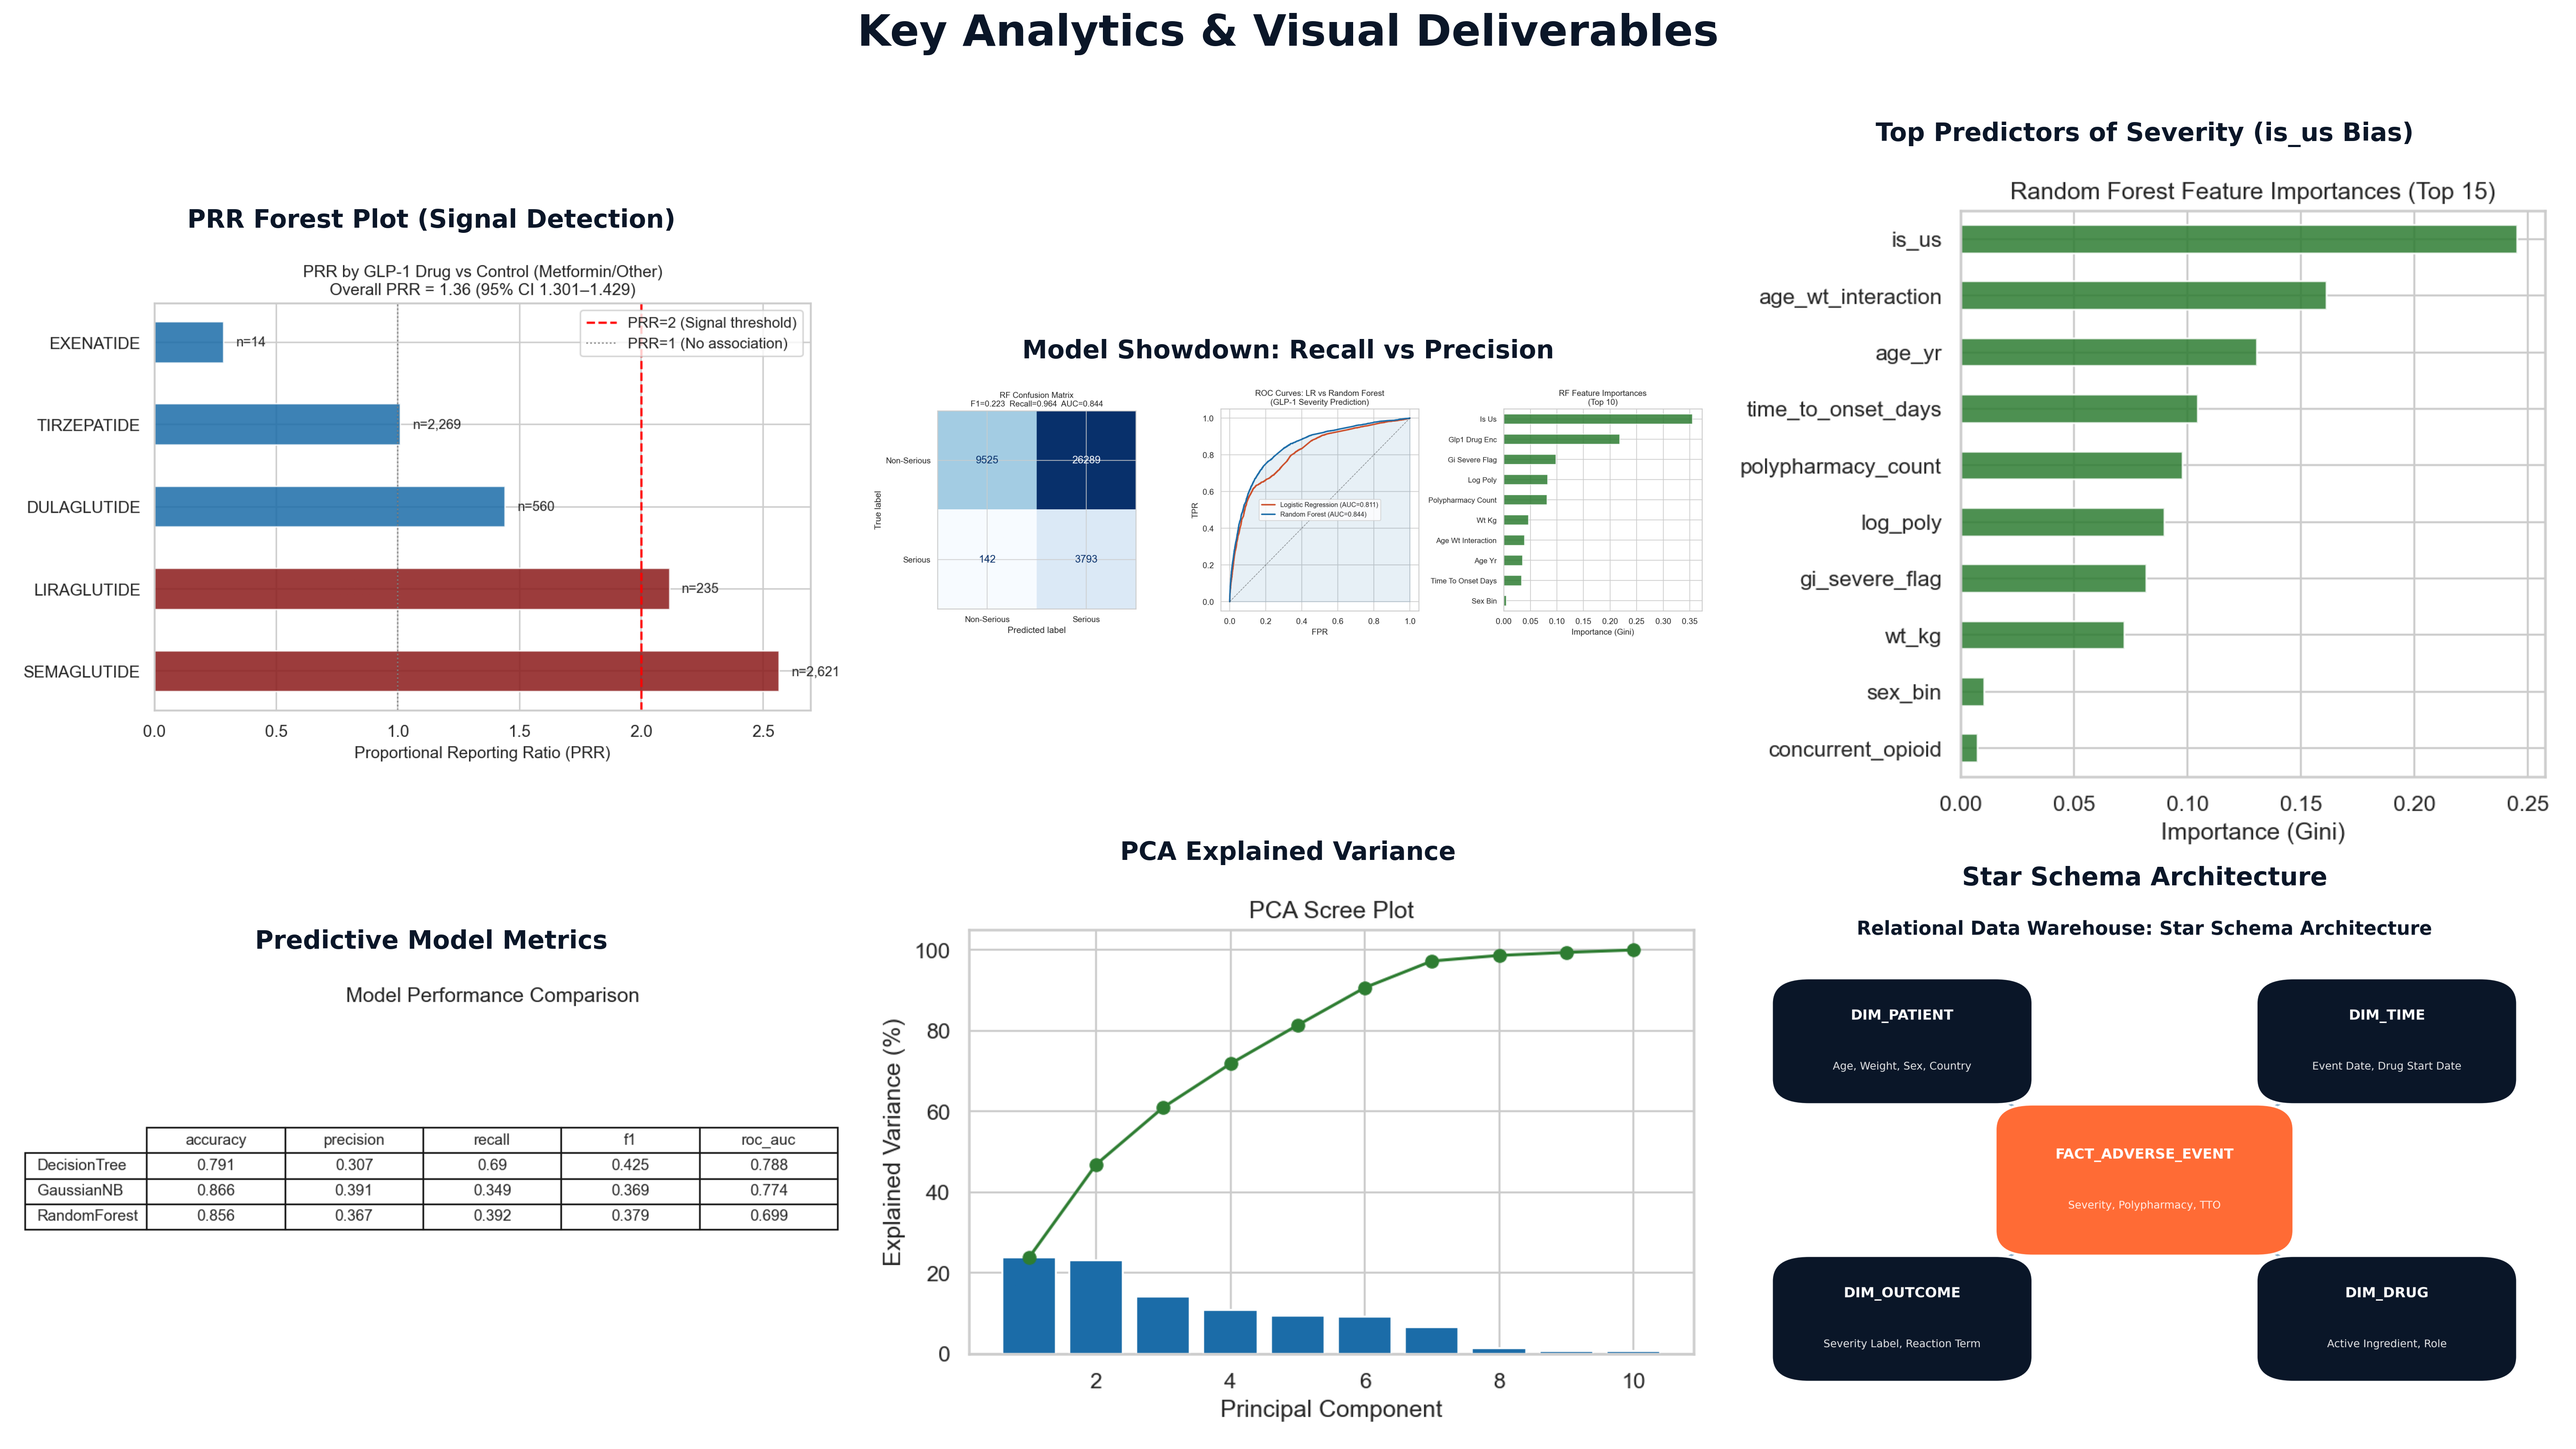
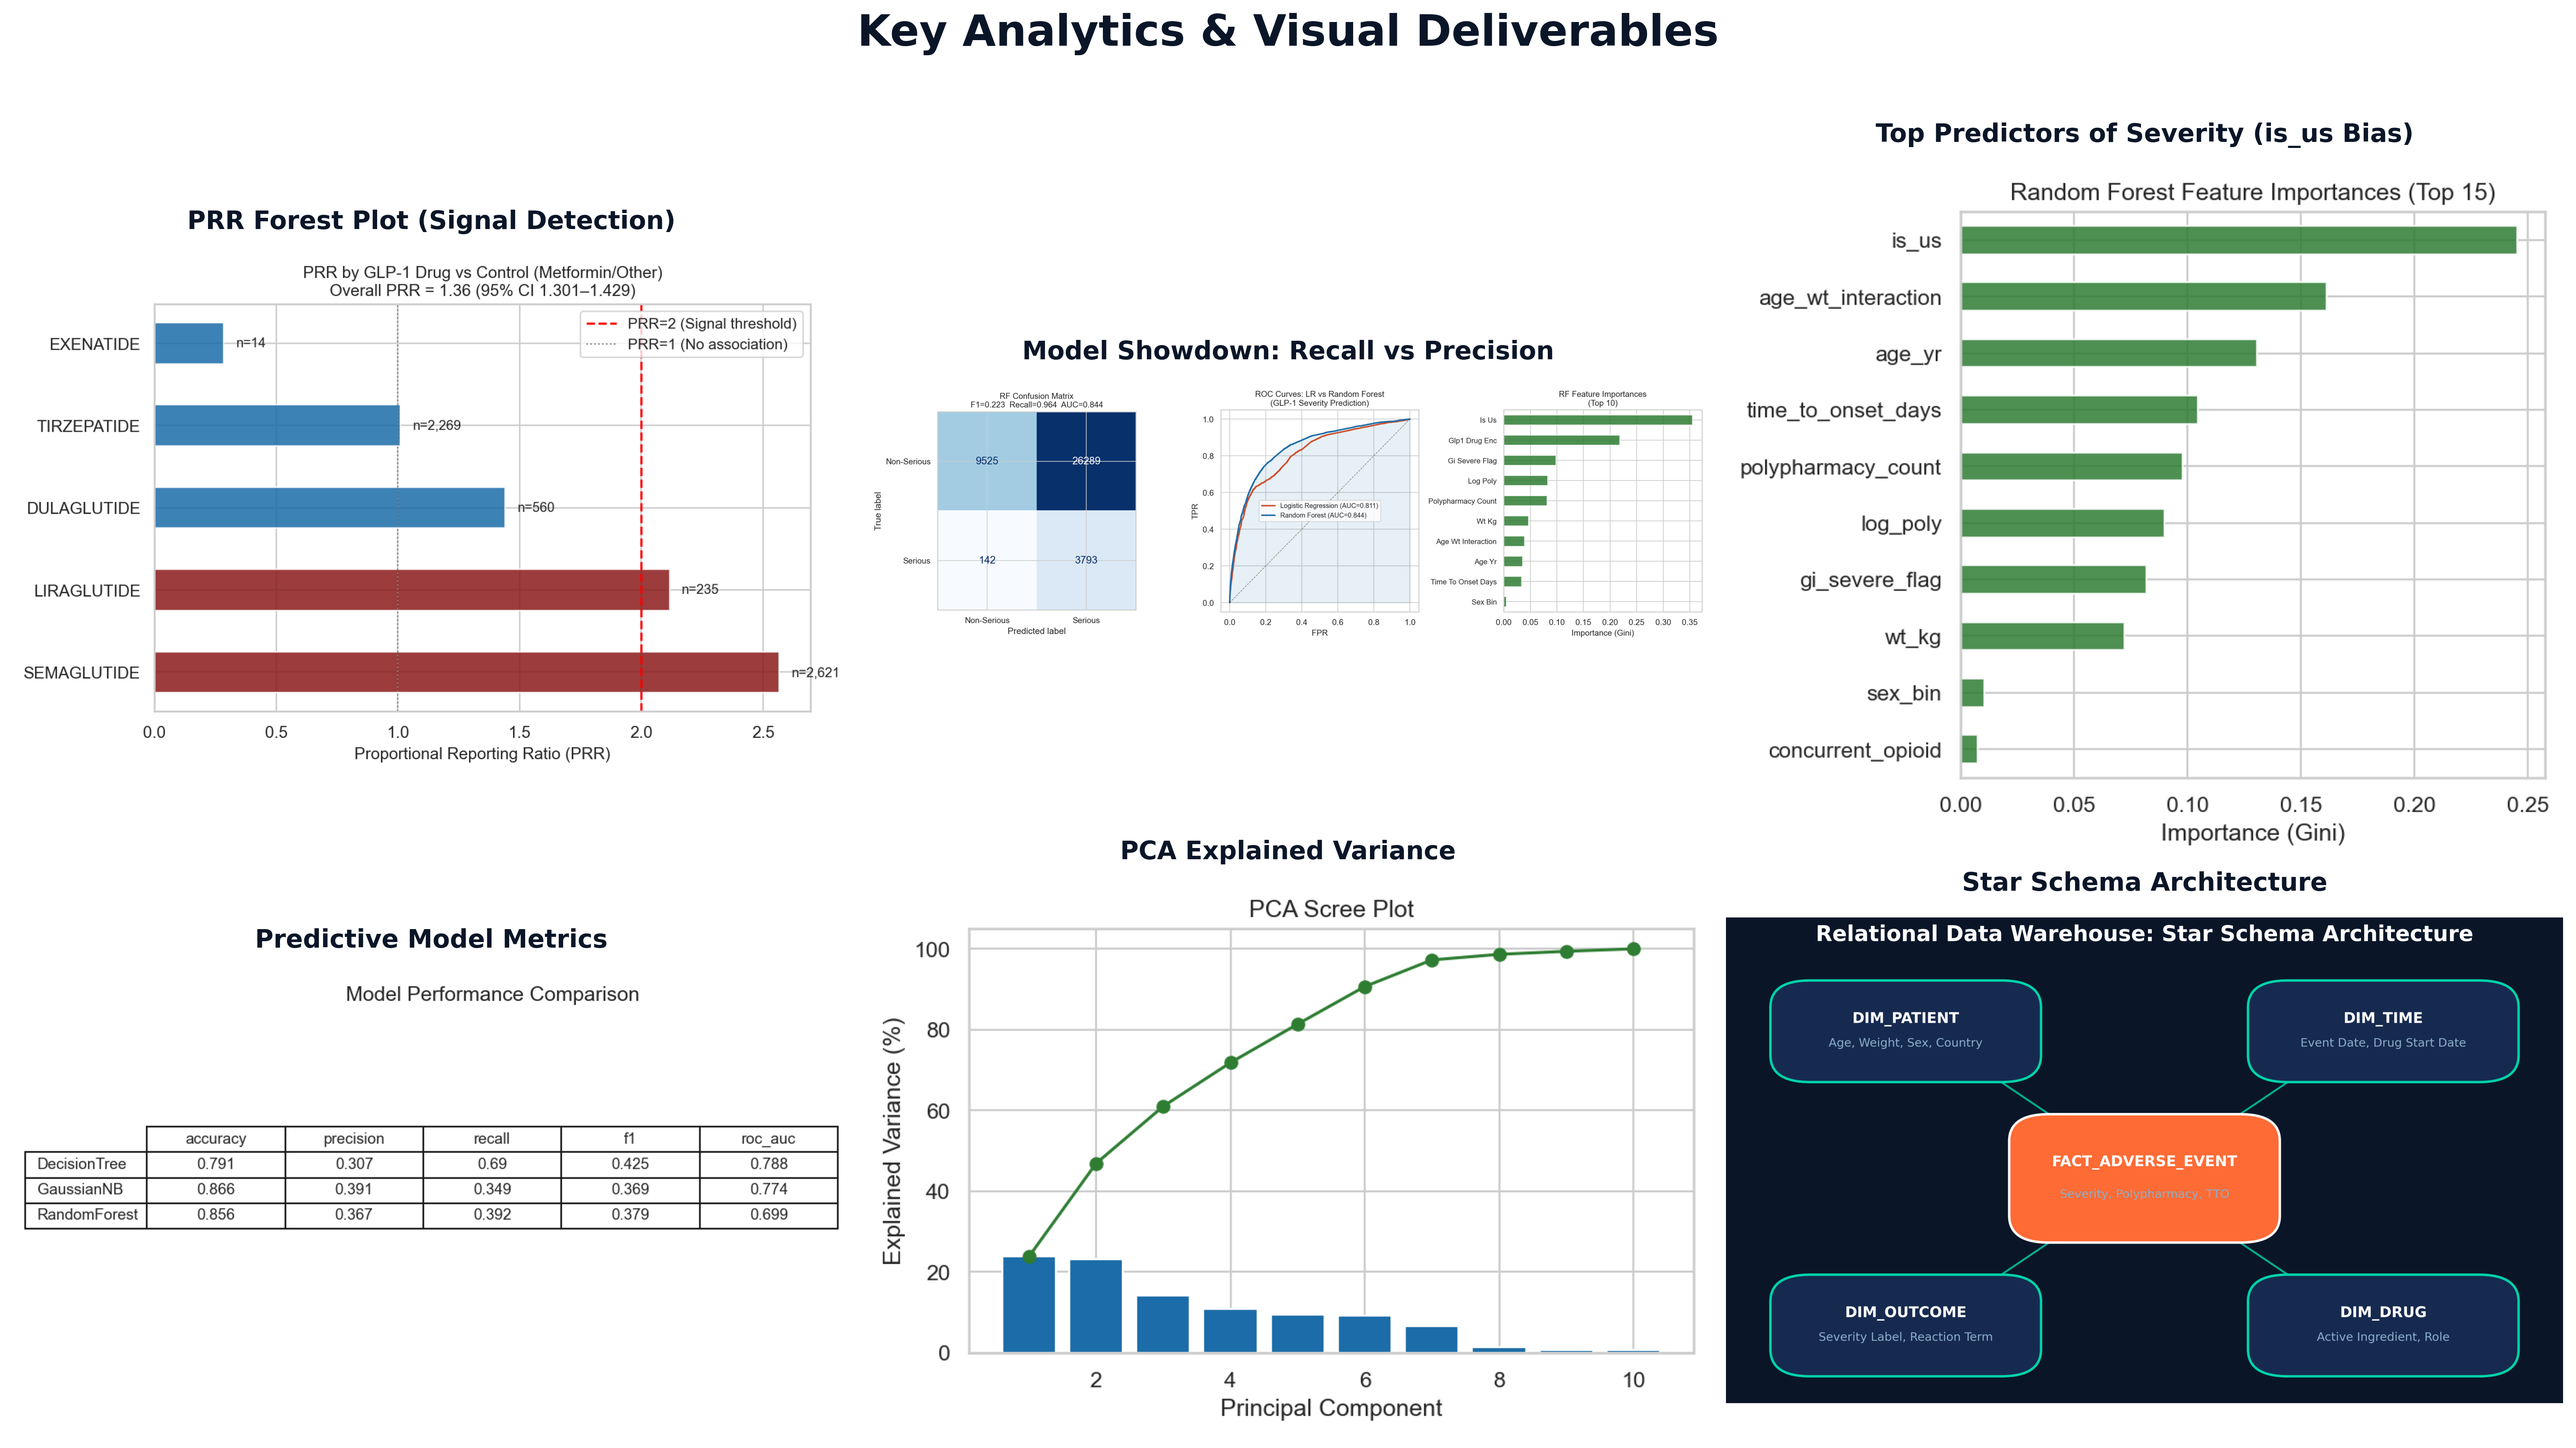
new visuals

diff --git a/07_build_summary_visuals.py b/07_build_summary_visuals.py
@@ -1,4 +1,4 @@
-"""Generate high-quality summary visuals and a modern star schema diagram."""
+"""Generate high-quality summary visuals matching the PPTX color scheme."""
 from pathlib import Path
 import matplotlib.pyplot as plt
 import matplotlib.image as mpimg
@@ -8,45 +8,51 @@ ROOT = Path(__file__).resolve().parent
 FIG_DIR = ROOT / "reports" / "figures"
 FIG_DIR.mkdir(parents=True, exist_ok=True)
 
-# Project Color Palette
-NAVY = "#0A1628"
-TEAL = "#00D4AA"
-ORANGE = "#FF6B35"
+# PPTX Color Palette
+BG_NAVY = "#0A1628"      # Matches the slide background perfectly
+BOX_NAVY = "#162A50"     # Slightly lighter navy for dimension tables
+TEAL = "#00D4AA"         # Medical Teal for borders/accents
+ORANGE = "#FF6B35"       # Safety Orange for the Fact table
+WHITE = "#FFFFFF"
 MUTED = "#8BAFC8"
 
 def build_star_schema(path: Path) -> None:
-    plt.figure(figsize=(10, 6), facecolor='white')
-    ax = plt.gca()
+    # Set the background color to match the PPTX slide
+    fig, ax = plt.subplots(figsize=(12, 7), facecolor=BG_NAVY)
+    ax.set_facecolor(BG_NAVY)
     ax.axis("off")
 
-    def box(x, y, w, h, title, subtitle, color):
-        # Create a modern rounded rectangle
-        p = FancyBboxPatch((x, y), w, h, boxstyle="round,pad=0.05", 
-                           fc=color, ec="white", lw=2)
+    def box(x, y, w, h, title, subtitle, bg_color, border_color):
+        p = FancyBboxPatch((x, y), w, h, boxstyle="round,pad=0.02,rounding_size=0.05", 
+                           fc=bg_color, ec=border_color, lw=2.5, zorder=2)
         ax.add_patch(p)
-        ax.text(x + w / 2, y + h / 2 + 0.05, title, color="white", 
-                ha="center", va="center", fontsize=12, fontweight="bold", family="sans-serif")
-        ax.text(x + w / 2, y + h / 2 - 0.05, subtitle, color="white", 
-                ha="center", va="center", fontsize=9, family="sans-serif", alpha=0.9)
+        ax.text(x + w / 2, y + h * 0.65, title, color=WHITE, 
+                ha="center", va="center", fontsize=15, fontweight="bold", family="sans-serif", zorder=3)
+        ax.text(x + w / 2, y + h * 0.35, subtitle, color=MUTED, 
+                ha="center", va="center", fontsize=12, family="sans-serif", zorder=3)
 
-    # Draw connection lines (behind boxes)
-    ax.plot([0.5, 0.2], [0.5, 0.75], color=MUTED, lw=2, zorder=0)
-    ax.plot([0.5, 0.8], [0.5, 0.75], color=MUTED, lw=2, zorder=0)
-    ax.plot([0.5, 0.2], [0.5, 0.25], color=MUTED, lw=2, zorder=0)
-    ax.plot([0.5, 0.8], [0.5, 0.25], color=MUTED, lw=2, zorder=0)
+    # Draw connection lines (zorder=1)
+    ax.plot([0.5, 0.25], [0.5, 0.75], color=TEAL, lw=2, zorder=1, alpha=0.8)
+    ax.plot([0.5, 0.75], [0.5, 0.75], color=TEAL, lw=2, zorder=1, alpha=0.8)
+    ax.plot([0.5, 0.25], [0.5, 0.25], color=TEAL, lw=2, zorder=1, alpha=0.8)
+    ax.plot([0.5, 0.75], [0.5, 0.25], color=TEAL, lw=2, zorder=1, alpha=0.8)
     
-    # Draw boxes (zorder=1 to sit on top of lines)
-    box(0.35, 0.4, 0.3, 0.2, "FACT_ADVERSE_EVENT", "Severity, Polypharmacy, TTO", ORANGE)
-    box(0.05, 0.7, 0.25, 0.15, "DIM_PATIENT", "Age, Weight, Sex, Country", NAVY)
-    box(0.7, 0.7, 0.25, 0.15, "DIM_TIME", "Event Date, Drug Start Date", NAVY)
-    box(0.05, 0.15, 0.25, 0.15, "DIM_OUTCOME", "Severity Label, Reaction Term", NAVY)
-    box(0.7, 0.15, 0.25, 0.15, "DIM_DRUG", "Active Ingredient, Role", NAVY)
+    # Central Fact Table (Orange)
+    box(0.35, 0.4, 0.3, 0.2, "FACT_ADVERSE_EVENT", "Severity, Polypharmacy, TTO", ORANGE, WHITE)
+    
+    # Dimension Tables (Navy with Teal borders)
+    box(0.05, 0.7, 0.3, 0.15, "DIM_PATIENT", "Age, Weight, Sex, Country", BOX_NAVY, TEAL)
+    box(0.65, 0.7, 0.3, 0.15, "DIM_TIME", "Event Date, Drug Start Date", BOX_NAVY, TEAL)
+    box(0.05, 0.15, 0.3, 0.15, "DIM_OUTCOME", "Severity Label, Reaction Term", BOX_NAVY, TEAL)
+    box(0.65, 0.15, 0.3, 0.15, "DIM_DRUG", "Active Ingredient, Role", BOX_NAVY, TEAL)
 
     plt.title("Relational Data Warehouse: Star Schema Architecture", 
-              fontsize=16, fontweight="bold", color=NAVY, pad=20)
+              fontsize=22, fontweight="bold", color=WHITE, pad=20)
     plt.tight_layout()
-    plt.savefig(path, dpi=300, bbox_inches="tight")
+    # Save with the navy background
+    plt.savefig(path, dpi=300, bbox_inches="tight", facecolor=fig.get_facecolor(), edgecolor='none')
     plt.close()
+    print("✅ High-fidelity slide-matching Star Schema generated.")
 
 def build_summary(path: Path, star_path: Path) -> None:
     images = [
@@ -58,22 +64,22 @@ def build_summary(path: Path, star_path: Path) -> None:
         ("Star Schema Architecture", star_path),
     ]
 
-    fig, axes = plt.subplots(2, 3, figsize=(20, 12), facecolor='white')
-    fig.suptitle("Key Analytics & Visual Deliverables", fontsize=24, fontweight='bold', color=NAVY, y=0.98)
+    fig, axes = plt.subplots(2, 3, figsize=(20, 12), facecolor=WHITE)
+    fig.suptitle("Key Analytics & Visual Deliverables", fontsize=24, fontweight='bold', color=BG_NAVY, y=0.98)
     
     for ax, (title, img_path) in zip(axes.ravel(), images):
         ax.axis("off")
         if img_path.exists():
             img = mpimg.imread(img_path)
             ax.imshow(img)
-            ax.set_title(title, fontsize=14, fontweight='bold', color=NAVY, pad=15)
+            ax.set_title(title, fontsize=14, fontweight='bold', color=BG_NAVY, pad=15)
         else:
             ax.text(0.5, 0.5, f"Missing: {img_path.name}", ha="center", va="center", color=ORANGE)
 
     plt.tight_layout(rect=[0, 0, 1, 0.95])
     plt.savefig(path, dpi=300, bbox_inches="tight")
     plt.close()
-    print("✅ High-fidelity Teal & Orange visuals generated successfully.")
+    print("✅ High-fidelity Visual Summary generated.")
 
 if __name__ == "__main__":
     schema_path = FIG_DIR / "star_schema.png"
